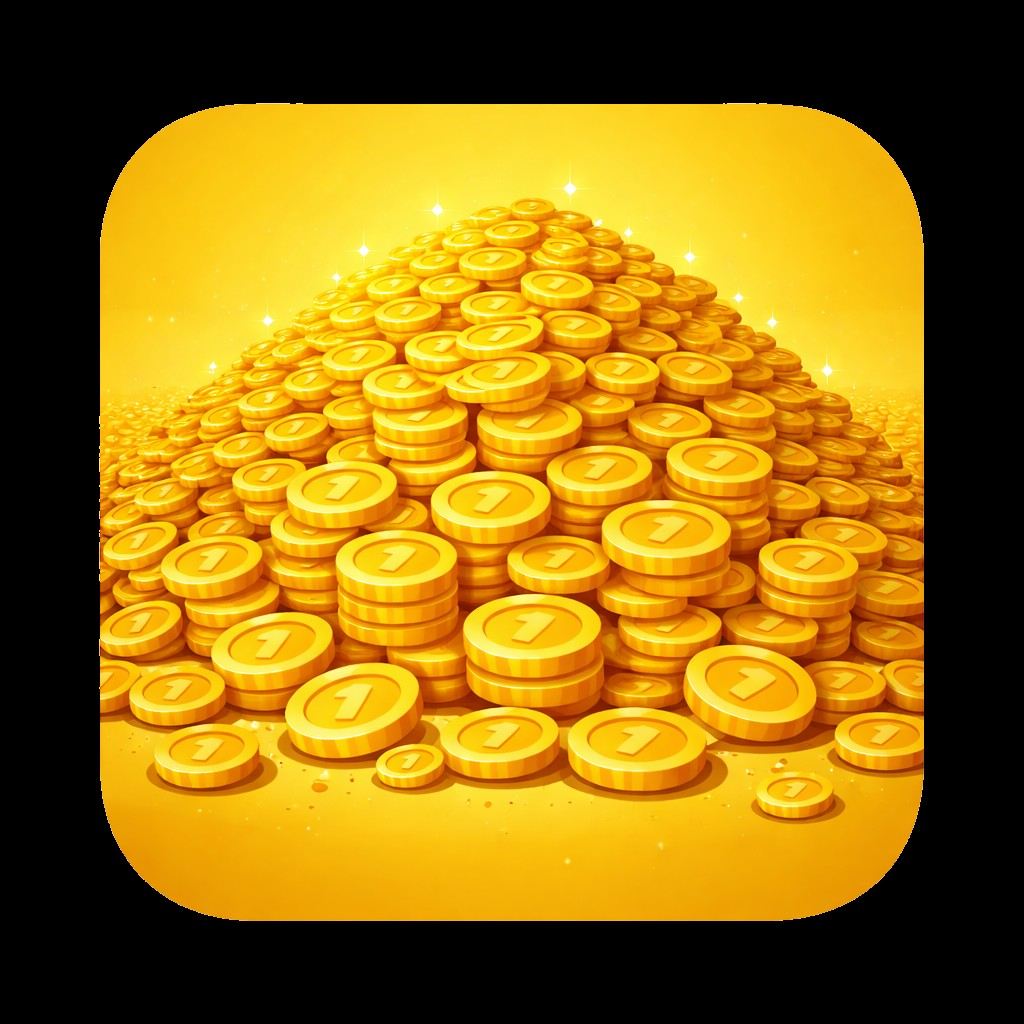
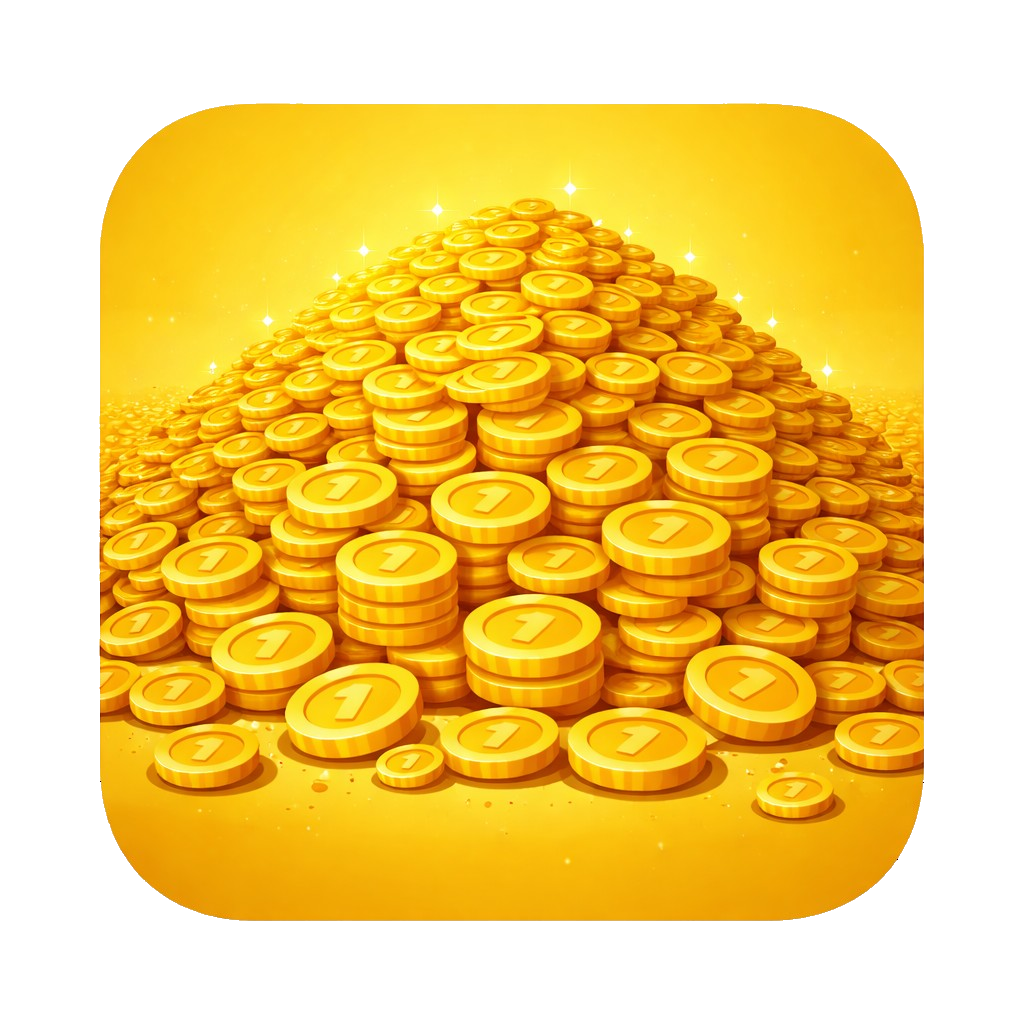
tjjz

diff --git a/src/components/chess/ChessOnlineMode.tsx b/src/components/chess/ChessOnlineMode.tsx
@@ -382,8 +382,12 @@ export function ChessOnlineMode({ onBack }: ChessOnlineModeProps) {
                             }}
                           >
                             {/* Icon */}
-                            <div className="w-20 h-20 mx-auto mb-4 rounded-[22%] overflow-hidden shadow-[0_4px_20px_rgba(0,0,0,0.5)]">
-                              <img src={option.image} alt={option.label} className="w-full h-full object-cover" />
+                            <div className="w-20 h-20 mx-auto mb-4">
+                              <img
+                                src={option.image}
+                                alt={option.label}
+                                className="w-full h-full object-contain drop-shadow-[0_4px_12px_rgba(0,0,0,0.6)]"
+                              />
                             </div>
 
                             {/* Label */}
